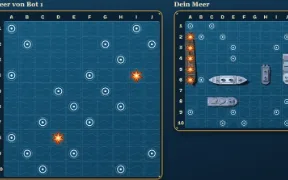
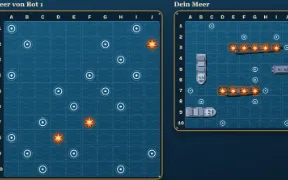
feat(schiffe): add selectable space skin
Zweites Design "Taktik-Konsole" (skin-ID `space`) fuer das bestehende Spiel `schiffe` - kein
zweites Spiel, keine zweite Registrierung. Der Host waehlt es beim Erstellen neben "Klassisch"
(Vorschaukarten, getrennt von classic/salvo); es gilt fuer alle am Tisch, bleibt beim
Wiederverbinden erhalten und ist pro Raum unabhaengig. Regeln, Server und Bedienung unveraendert.

- Gestaltung nach dem Vault-Entwurf: dunkle Weltraum-Konsole, Sterne, Radarringe mit langsamem
  Schwenk (nur Desktop, aus bei reduzierter Bewegung), fuenf Raumschiffformen in Draufsicht
  (aus dem Entwurf uebertragen, mit roter Wrackfassung), Treffer als bernsteinfarbener Stern,
  Fehlschuss als Ring, Zielerfassung mit Klammern, FEUER-Knopf; eigener Sektor mit Flottenstatus
  (Rumpfintegritaet), Gegnerflotte nur "Position unbekannt"/"vernichtet", Gefechtsprotokoll,
  auf dem Handy Reiter Zielsektor / Eigene Flotte.
- Alle Grafiken eigene Zeichnungen (scripts/build-schiffe-space-art.mjs, 20 SVG, zusammen 20 KB);
  der Name des Vorbilds steht nicht in der Oberflaeche, Anzeigename "Taktik-Konsole".
- Zielen bleibt wie bisher (Maus: Klick schiesst, Touch: Feld waehlen, dann Feuer); keine neue
  Eingabe, nichts Verdecktes im DOM (Gegnerflotte nur aus den versenkten Schiffen).
- Tests: test/ui/art-schiffe.spec.js um Flottenstatus, Gegnerflotte, Protokoll, Reiter und
  Zielerfassung erweitert; alle Skin-Tests laufen nun mit beiden Designs (Designauswahl, zwei
  Raeume gleichzeitig mit verschiedenen Designs).
[…]

diff --git a/public/games/schiffe/schiffe.js b/public/games/schiffe/schiffe.js
@@ -11,9 +11,10 @@
   const FINE = matchMedia('(pointer: fine)');
 
   // ---- Design (Skin): nur das Aussehen. Die ID kommt als Raumeinstellung vom Server (games/schiffe/skins.js) und gilt für alle am Tisch. ----
-  const SKINS = ['naval'];
+  const SKINS = ['naval', 'space'];
   const skinOf = (S) => (SKINS.includes(S?.settings?.skin) ? S.settings.skin : 'naval');
-  function applySkin(S) { const root = document.getElementById('kg'); if (root && S) root.dataset.svSkin = skinOf(S); }
+  let skinNow = 'naval', svTab = 'target'; // Design des Tisches; Reiter „Zielsektor / Eigene Flotte“ auf schmalen Handys (nur Taktik-Konsole)
+  function applySkin(S) { if (S) skinNow = skinOf(S); const root = document.getElementById('kg'); if (root && S) root.dataset.svSkin = skinNow; }
   // Klassisch (naval): vorgerenderte Watercraft-Modelle von oben (Kenney, CC0), Stahlton eingerechnet. Passregel aus dem Entwurf (Design C):
   // Länge N − 0,1 Felder, Breite höchstens 0,96 Zeilen, rundum 22 % Rand für den Schatten. len/wid in Feldern.
   const NAVAL_ART = '/games/schiffe/art/naval/';
@@ -23,20 +24,56 @@
   };
   // Modellwahl nur aus Länge und Lage der Zellen – für alle gleich (auch die Gegenseite sieht dasselbe Modell, nichts Verdecktes)
   const navalFit = (n, first) => { const list = NAVAL_FIT[n] || NAVAL_FIT[n > 5 ? 5 : 2]; return list[(Math.floor(first / SIZE) + first % SIZE) % list.length]; };
+  // Taktik-Konsole (space): fünf Raumschiffklassen in Draufsicht aus dem Vault-Entwurf (eigene Zeichnungen, art/space/). Längen und Regeln bleiben, die Klassennamen sind nur Anzeige.
+  const SPACE_ART = '/games/schiffe/art/space/';
+  const SPACE_CLASS = { 5: ['Träger'], 4: ['Schlachtkreuzer'], 3: ['Fregatte', 'Korvette'], 2: ['Jäger'] };
+  const spaceSize = (n) => (n >= 5 ? 5 : n <= 2 ? 2 : n);
+  const spaceName = (n, k = 0) => { const list = SPACE_CLASS[spaceSize(n)]; return list[k % list.length]; };
+  const spaceNames = (sizes) => { const seen = {}; return sizes.map((n) => spaceName(n, (seen[n] = (seen[n] ?? -1) + 1))); };
+  const spaceImg = (n, vertical, wreck) => SPACE_ART + 'ship-' + spaceSize(n) + '-' + (vertical ? 'v' : 'h') + (wreck ? '-wreck' : '') + '.svg';
+  const T = (de) => esc(I18n.t(de));
+  Object.assign(window.EN || {}, { 'Eigener Sektor': 'Own sector', 'Zielsektor · Gegner {0}': 'Target sector · opponent {0}', 'Sektor von {0}': 'Sector of {0}', 'Zielsektor': 'Target sector', 'Eigene Flotte': 'Own fleet',
+    'Eigene Flotte · Rumpfintegrität': 'Own fleet · hull integrity', 'Gegnerflotte · erfasst': 'Enemy fleet · detected', 'Gefechtsprotokoll': 'Combat log', 'Position unbekannt': 'Position unknown', 'VERNICHTET': 'DESTROYED', 'Sektionen': 'sections',
+    'Noch kein Schuss.': 'No shot yet.', 'Ansicht': 'View', 'Träger': 'Carrier', 'Schlachtkreuzer': 'Battlecruiser', 'Fregatte': 'Frigate', 'Korvette': 'Corvette', 'Jäger': 'Fighter', 'Taktik-Konsole': 'Tactical console',
+    'Flotte ausrichten': 'Align your fleet', 'Gefechtsstand': 'Battle station' });
   const SINK_MS = 900;
   let sunkRound = null, sunkSeen = new Set(), sunkFresh = new Map(); // frisch versenkte Schiffe: Schlüssel → Startzeit der Sinkbewegung (läuft auch über ein Neuzeichnen hinweg weiter)
   const sunkKeys = (g) => new Set(Object.entries(g.seas).flatMap(([id, sea]) => (sea.sunk || []).map((x) => id + ':' + Math.min(...x.cells))));
   const vesselHTML = (cells, { owner, sunk, picked }) => {
     cells = [...cells].sort((a, b) => a - b);
     const n = cells.length; if (!n) return '';
-    const first = cells[0], r0 = Math.floor(first / SIZE), c0 = first % SIZE, vertical = n > 1 && cells[1] - first === SIZE, fit = navalFit(n, first);
+    const first = cells[0], r0 = Math.floor(first / SIZE), c0 = first % SIZE, vertical = n > 1 && cells[1] - first === SIZE, fit = navalFit(n, first), space = skinNow === 'space';
     const wreck = cells.every((c) => sunk.has(c)), since = Date.now() - (sunkFresh.get(owner + ':' + first) ?? -Infinity), sinking = wreck && since < SINK_MS && !motionOff();
     // Absolut platziert (nimmt an der Zellenplatzierung nicht teil) – darum Start und Ende aller Linien angeben; „auto“ hieße bis zum Rand
     const pos = vertical ? 'grid-row:' + (r0 + 2) + ' / ' + (r0 + 2 + n) + ';grid-column:' + (c0 + 2) + ' / ' + (c0 + 3) : 'grid-row:' + (r0 + 2) + ' / ' + (r0 + 3) + ';grid-column:' + (c0 + 2) + ' / ' + (c0 + 2 + n);
-    return '<span class="sv-vessel ' + (vertical ? 'v' : 'h') + (wreck ? ' wreck' : '') + (sinking ? ' sinking' : '') + (picked ? ' picked' : '') + '" style="' + pos + ';--n:' + n + ';--len:' + fit.len + ';--wid:' + fit.wid + (sinking ? ';--sink-delay:-' + Math.round(since) + 'ms' : '') + '" aria-hidden="true"><img src="' + NAVAL_ART + 'stahl-' + fit.m + '-' + (vertical ? 'v' : 'h') + '.webp" alt="" decoding="async" draggable="false"></span>';
+    return '<span class="sv-vessel ' + (vertical ? 'v' : 'h') + (space ? ' space' : '') + (wreck ? ' wreck' : '') + (sinking ? ' sinking' : '') + (picked ? ' picked' : '') + '" style="' + pos + ';--n:' + n + ';--len:' + fit.len + ';--wid:' + fit.wid + (sinking ? ';--sink-delay:-' + Math.round(since) + 'ms' : '') + '" aria-hidden="true"><img src="' + (space ? spaceImg(n, vertical, wreck) : NAVAL_ART + 'stahl-' + fit.m + '-' + (vertical ? 'v' : 'h') + '.webp') + '" alt="" decoding="async" draggable="false"></span>';
   };
+  // Taktik-Konsole: eigene Flotte mit Rumpfintegrität (eigene Schiffe und die Schüsse des Gegners darauf), Gegnerflotte nur „unbekannt“ oder „vernichtet“
+  // (aus den versenkten Schiffen), Protokoll aus den öffentlichen Zügen. Nichts davon enthält Positionen nicht versenkter gegnerischer Schiffe.
+  const secHTML = (n, hit) => Array.from({ length: n }, (_, i) => '<i' + (i < hit ? ' class="hit"' : '') + '></i>').join('');
+  function ownFleetHTML(mine) {
+    const hits = new Set(Object.keys(mine.shots || {}).filter((c) => mine.shots[c] === 'hit').map(Number)), ships = mine.ships || [], names = spaceNames(ships.map((x) => x.size));
+    return '<section class="sv-panel sv-own-fleet"><h3>' + T('Eigene Flotte · Rumpfintegrität') + '</h3><ul>' + ships.map((x, k) => {
+      const hit = x.cells.filter((c) => hits.has(c)).length, dead = hit === x.size;
+      return '<li class="sv-fl' + (dead ? ' dead' : '') + '">' + fleetIconHTML(x.size, dead) + '<span class="sv-fl-t"><b>' + T(names[k]) + '</b><small>' + (x.size - hit) + '/' + x.size + ' ' + T('Sektionen') + '</small></span><span class="sv-sec" aria-hidden="true">' + secHTML(x.size, hit) + '</span></li>';
+    }).join('') + '</ul></section>';
+  }
+  function foeFleetHTML(S, foe) {
+    const g = S.g, sunk = (g.seas[foe].sunk || []).map((x) => x.size), names = spaceNames(g.fleet);
+    return '<section class="sv-panel sv-foe-fleet"><h3>' + T('Gegnerflotte · erfasst') + '</h3><ul>' + g.fleet.map((size, k) => {
+      const at = sunk.indexOf(size), dead = at >= 0; if (dead) sunk.splice(at, 1);
+      return '<li class="sv-fl' + (dead ? ' dead' : '') + '">' + fleetIconHTML(size, dead) + '<span class="sv-fl-t"><b>' + T(names[k]) + '</b><small>' + (dead ? T('VERNICHTET') : T('Position unbekannt')) + '</small></span></li>';
+    }).join('') + '</ul></section>';
+  }
+  function logHTML(S) {
+    const rows = (S.moves || []).filter((m) => m.n).slice(-7).reverse();
+    // Salve: die aufgelösten Schüsse beider Seiten (öffentlich, erst nach der gemeinsamen Auflösung)
+    const salvo = S.g.lastSalvo ? Object.entries(S.g.lastSalvo.shots).map(([id, list]) => '<li class="salvo"><b>' + nameOf(S, id) + '</b> ' + list.map((x) => cellName(x.cell) + (x.hit ? ' ✕' : ' •')).join(' ') + '</li>').join('') : '';
+    return '<section class="sv-panel sv-log"><h3>' + T('Gefechtsprotokoll') + '</h3>' + (rows.length ? '<ol>' + salvo + rows.map((m) => '<li class="' + (/versenkt/i.test(m.t) ? 'sunk' : /treffer/i.test(m.t) ? 'hit' : '') + '"><b>' + esc(m.n) + '</b> ' + esc(m.t) + '</li>').join('') + '</ol>' : '<p class="hint">' + T('Noch kein Schuss.') + '</p>') + '</section>';
+  }
+  const tabsHTML = () => '<div class="sv-tabs" role="group" aria-label="' + T('Ansicht') + '">' + [['target', 'Zielsektor'], ['own', 'Eigene Flotte']].map(([k, label]) => '<button type="button" class="sv-tab" data-g="svtab" data-tab="' + k + '" aria-pressed="' + (svTab === k) + '">' + T(label) + '</button>').join('') + '</div>';
   // Flottenliste beim Setzen: das Schiff als kleines Bild (waagerecht)
-  const fleetIconHTML = (size) => { const fit = navalFit(size, 0); return '<span class="sv-hull sv-hull-img" style="--len:' + fit.len + ';--wid:' + fit.wid + '" aria-hidden="true"><img src="' + NAVAL_ART + 'stahl-' + fit.m + '-h.webp" alt="" decoding="async" draggable="false"></span>'; };
+  const fleetIconHTML = (size, wreck = false) => { if (skinNow === 'space') return '<span class="sv-hull sv-hull-img sv-hull-space" style="--n:' + size + '" aria-hidden="true"><img src="' + spaceImg(size, false, wreck) + '" alt="" decoding="async" draggable="false"></span>'; const fit = navalFit(size, 0); return '<span class="sv-hull sv-hull-img" style="--len:' + fit.len + ';--wid:' + fit.wid + '" aria-hidden="true"><img src="' + NAVAL_ART + 'stahl-' + fit.m + '-h.webp" alt="" decoding="async" draggable="false"></span>'; };
 
   // Gleiche Prüfung wie auf dem Server (der entscheidet am Ende trotzdem selbst)
   function shipCells(cell, size, horizontal) {
@@ -171,7 +208,7 @@
       const W = WorldKit, t = W.t, g1 = S.g, over1 = S.phase === 'over', mine1 = meIn(S);
       const chips = [g1.step === 'place' && !over1 ? W.chip('⚓', mine1?.ready ? t('Flotte steht – warte auf den Gegner', 'Fleet ready – waiting for the opponent') : t('Phase: Schiffe setzen', 'Phase: placing ships'), mine1?.ready ? 'good' : 'warn') : over1 ? W.chip('🏁', t('Partie vorbei – beide Meere aufgedeckt', 'Game over – both seas revealed')) : W.chip('🎯', S.turnId === S.you?.id ? t('Du schießt', 'You are firing') : t('Der Gegner schießt', 'The opponent is firing'), S.turnId === S.you?.id ? 'good' : ''), S.variant === 'salvo' ? W.chip('✦', t('Salve-Variante', 'Salvo variant')) : ''].filter(Boolean);
       applySkin(S);
-      return `<div class="wk-stage sv-stage" data-skin="${skinOf(S)}">${W.head({ eyebrow: t('Seekarte', 'Sea chart'), title: g1.step === 'place' && !over1 ? t('Flotte aufstellen', 'Deploy your fleet') : t('Seeschlacht', 'Sea battle'), chips })}${this.mainBody(S)}</div>`;
+      return `<div class="wk-stage sv-stage" data-skin="${skinOf(S)}">${W.head({ eyebrow: skinOf(S) === 'space' ? t('Taktik-Konsole', 'Tactical console') : t('Seekarte', 'Sea chart'), title: g1.step === 'place' && !over1 ? (skinOf(S) === 'space' ? t('Flotte ausrichten', 'Align your fleet') : t('Flotte aufstellen', 'Deploy your fleet')) : (skinOf(S) === 'space' ? t('Gefechtsstand', 'Battle station') : t('Seeschlacht', 'Sea battle')), chips })}${this.mainBody(S)}</div>`;
     },
     mainBody(S) {
       const g = S.g;
@@ -183,19 +220,21 @@
       if (g.step === 'place' && !over) {
         if (!mine) return I18n.html`<div class="kg-table sv-wrap"><p class="hint">Die beiden setzen gerade ihre Schiffe – gleich geht es los.</p></div>`;
         const ships = mine.ready ? shipList(mine.ships) : draftCells(g.fleet);
-        return `<div class="kg-table sv-wrap">${board(mine, { ships, place: !mine.ready, title: 'Dein Meer', label: mine.ready ? '✓ bereit' : '', owner: me })}</div>`;
+        return `<div class="kg-table sv-wrap">${board(mine, { ships, place: !mine.ready, title: skinNow === 'space' ? T('Eigener Sektor') : 'Dein Meer', label: mine.ready ? '✓ bereit' : '', owner: me })}</div>`;
       }
       // Zuschauer oder Spielende: beide Meere (nach Spielende mit allen Schiffen)
       if (!mine || over) {
-        return `<div class="kg-table sv-wrap"><div class="sv-two">${ids.map((id) => board(g.seas[id], { ships: shipList(g.seas[id].ships || g.seas[id].sunk), small: true, title: I18n.html`Meer von ${nameOf(S, id)}`, label: over ? 'aufgedeckt' : '', owner: id })).join('')}</div></div>`;
+        return `<div class="kg-table sv-wrap"><div class="sv-two">${ids.map((id) => board(g.seas[id], { ships: shipList(g.seas[id].ships || g.seas[id].sunk), small: true, title: skinNow === 'space' ? I18n.html`Sektor von ${nameOf(S, id)}` : I18n.html`Meer von ${nameOf(S, id)}`, label: over ? 'aufgedeckt' : '', owner: id })).join('')}</div></div>`;
       }
       const foe = foeOf(S, me);
       const salvo = S.variant === 'salvo';
       const myTurn = salvo ? !g.salvoReady?.[me] : S.turnId === me;
-      return `<div class="kg-table sv-wrap"><div class="sv-two">
-        ${board(g.seas[foe], { ships: shipList(g.seas[foe].sunk), target: myTurn, sel: salvo ? volley : aim, title: I18n.html`Meer von ${nameOf(S, foe)}`, label: myTurn ? 'du schießt' : '', owner: foe })}
-        ${board(mine, { ships: shipList(mine.ships), small: true, title: 'Dein Meer', owner: me })}
-      </div></div>`;
+      const space = skinNow === 'space';
+      const targetBoard = board(g.seas[foe], { ships: shipList(g.seas[foe].sunk), target: myTurn, sel: salvo ? volley : aim, title: space ? I18n.html`Zielsektor · Gegner ${nameOf(S, foe)}` : I18n.html`Meer von ${nameOf(S, foe)}`, label: myTurn ? 'du schießt' : '', owner: foe });
+      const ownBoard = board(mine, { ships: shipList(mine.ships), small: true, title: space ? T('Eigener Sektor') : 'Dein Meer', owner: me });
+      // Taktik-Konsole: eigener Sektor und Flotte links, Zielsektor in der Mitte, Gegnerflotte und Protokoll rechts; auf dem Handy zwei Reiter
+      if (space) return `<div class="kg-table sv-wrap sv-console" data-tab="${svTab}">${tabsHTML()}<div class="sv-two sv-three"><div class="sv-col sv-col-own">${ownBoard}${ownFleetHTML(mine)}</div><div class="sv-col sv-col-target">${targetBoard}</div><div class="sv-col sv-col-info">${foeFleetHTML(S, foe)}${logHTML(S)}</div></div></div>`;
+      return `<div class="kg-table sv-wrap"><div class="sv-two">${targetBoard}${ownBoard}</div></div>`;
     },
     dock(S, myTurn) {
       const g = S.g;
@@ -204,7 +243,7 @@
       if (g.step === 'place') {
         if (mine.ready) return I18n.html('<button class="btn" data-g="unplace">Doch nochmal umstellen</button>');
         const ships = g.fleet.map((size, k) => `<button type="button" class="sv-ship ${selShip === k ? 'sel' : ''} ${draft[k] ? 'set' : ''}" data-g="ship" data-k="${k}" data-drag="ship${k}" aria-pressed="${selShip === k}">
-            ${fleetIconHTML(size)}<span>${SHIP[size]}${draft[k] ? ' ✓' : ''}</span></button>`).join('');
+            ${fleetIconHTML(size)}<span>${skinNow === 'space' ? T(spaceNames(g.fleet)[k]) : SHIP[size]}${draft[k] ? ' ✓' : ''}</span></button>`).join('');
         const done = draft.every(Boolean);
         return I18n.html`<div class="sv-ships" role="group" aria-label="Deine Flotte">${ships}</div>
           <div class="kg-acts"><button class="btn" data-g="turn">Drehen (${horizontal ? 'quer' : 'längs'})</button>
@@ -225,6 +264,7 @@
     onClick(t, S) {
       const g = t.dataset.g;
       const fleet = S.g.fleet;
+      if (g === 'svtab') { svTab = t.dataset.tab === 'own' ? 'own' : 'target'; kit.render(); return; }
       if (g === 'ship') { const k = Number(t.dataset.k); selShip = selShip === k ? null : k; if (selShip !== null && draft[selShip]) horizontal = draft[selShip].horizontal; kit.render(); }
       else if (g === 'cell') {
         const i = Number(t.dataset.i);

diff --git a/public/games/schiffe/schiffe.css b/public/games/schiffe/schiffe.css
@@ -90,3 +90,97 @@ body.calm .sv-vessel.sinking img { animation: none; }
 @media (max-width: 640px) { .kg-schiffe[data-sv-skin=naval] .sv-board { padding: 6px; gap: 1px; grid-template-columns: 12px repeat(10, minmax(0, 1fr)); border-radius: 10px; } .kg-schiffe[data-sv-skin=naval] .sv-lab { font-size: 10px; } }
 /* schmale Handys: mehr Breite fürs Meer, damit die Zellen groß genug bleiben (360 px Breite: etwa 29 px) */
 @media (max-width: 420px) { .kg-schiffe[data-sv-skin=naval] .sv-stage { padding-left: 8px; padding-right: 8px; } }
+
+/* ART-013 · Design „Taktik-Konsole“ (space): dunkle Weltraum-Konsole nach dem Vault-Entwurf. Eigene Zeichnungen (art/space/); nur das Aussehen.
+   Gilt nur, wenn der Tisch das Design space hat (Einstellung skin). Schiffsebene (.sv-vessel), Zellen und Bedienung wie bei naval, nur anders gezeichnet. */
+.kg-schiffe[data-sv-skin=space] .kg-main { background: url('/games/schiffe/art/space/stars.svg') 0 0 / 220px 220px, radial-gradient(120% 90% at 50% 15%, #0b1a2c, #04070c); }
+.kg-schiffe[data-sv-skin=space] .sv-stage { --wk-bg: linear-gradient(165deg, #07121e, #04070c); --wk-edge: #39d0ff55; --wk-accent: #7fe3ff; --wk-max: 1180px; }
+.kg-schiffe[data-sv-skin=space] .sv-sea h3 { font: 700 12px/1.3 system-ui, 'Segoe UI', sans-serif; letter-spacing: .14em; text-transform: uppercase; color: #39d0ff; text-align: left; }
+.kg-schiffe[data-sv-skin=space] .sv-sea h3 small { color: #ffb347; letter-spacing: .1em; }
+.kg-schiffe[data-sv-skin=space] .sv-board { position: relative; padding: 8px; gap: 2px; border-radius: 6px; overflow: hidden; background:
+  linear-gradient(#39d0ff, #39d0ff) 0 0 / 14px 2px no-repeat, linear-gradient(#39d0ff, #39d0ff) 0 0 / 2px 14px no-repeat, linear-gradient(#39d0ff, #39d0ff) 100% 0 / 14px 2px no-repeat, linear-gradient(#39d0ff, #39d0ff) 100% 0 / 2px 14px no-repeat,
+  linear-gradient(#39d0ff, #39d0ff) 0 100% / 14px 2px no-repeat, linear-gradient(#39d0ff, #39d0ff) 0 100% / 2px 14px no-repeat, linear-gradient(#39d0ff, #39d0ff) 100% 100% / 14px 2px no-repeat, linear-gradient(#39d0ff, #39d0ff) 100% 100% / 2px 14px no-repeat, #060e18;
+  box-shadow: inset 0 0 0 1px rgba(57,208,255,.28), 0 0 22px rgba(57,208,255,.08); }
+/* Radar: Ringe, Fadenkreuz und Scanlinien als eine Fläche unter dem Raster */
+.kg-schiffe[data-sv-skin=space] .sv-board::before { content: ''; position: absolute; inset: 0; grid-area: 2 / 2 / 12 / 12; pointer-events: none; border-radius: 3px; background:
+  repeating-linear-gradient(0deg, rgba(57,208,255,.055) 0 1px, transparent 1px 4px),
+  linear-gradient(90deg, transparent calc(50% - .5px), rgba(57,208,255,.2) calc(50% - .5px) calc(50% + .5px), transparent calc(50% + .5px)),
+  linear-gradient(0deg, transparent calc(50% - .5px), rgba(57,208,255,.2) calc(50% - .5px) calc(50% + .5px), transparent calc(50% + .5px)),
+  radial-gradient(circle at 50% 50%, transparent 0 17.5%, rgba(57,208,255,.2) 17.5% 18.2%, transparent 18.2% 35%, rgba(57,208,255,.16) 35% 35.7%, transparent 35.7% 52.5%, rgba(57,208,255,.13) 52.5% 53.2%, transparent 53.2% 70%, rgba(57,208,255,.1) 70% 70.7%, transparent 70.7%),
+  radial-gradient(circle at 50% 50%, #0f3550, #07121d 72%); box-shadow: inset 0 0 0 1px rgba(57,208,255,.3); }
+/* Radarschwenk: nur Zielsektor auf dem Desktop, langsam (transform), aus bei „Animationen aus“ und reduzierter Bewegung */
+.kg-schiffe[data-sv-skin=space] .sv-sea:not(.small) .sv-board::after { content: ''; position: absolute; inset: 0; grid-area: 2 / 2 / 12 / 12; pointer-events: none; border-radius: 50%; background: conic-gradient(from 0deg, rgba(57,208,255,.26), rgba(57,208,255,0) 38deg, transparent 360deg); mix-blend-mode: screen; animation: sv-sweep 16s linear infinite; will-change: transform; }
+@keyframes sv-sweep { to { transform: rotate(360deg); } }
+@media (max-width: 640px), (prefers-reduced-motion: reduce) { .kg-schiffe[data-sv-skin=space] .sv-sea:not(.small) .sv-board::after { animation: none; } }
+body.calm .kg-schiffe[data-sv-skin=space] .sv-board::after { animation: none; }
+.kg-schiffe[data-sv-skin=space] .sv-lab { color: #7fb8d4; font-size: 11px; font-weight: 700; letter-spacing: .05em; }
+.kg-schiffe[data-sv-skin=space] .sv-stage .sv-cell { min-height: 0; background: transparent; border-radius: 0; box-shadow: inset 0 0 0 .5px rgba(57,208,255,.17); color: transparent; position: relative; }
+.kg-schiffe[data-sv-skin=space] button.sv-cell:hover, .kg-schiffe[data-sv-skin=space] button.sv-cell:focus-visible { outline: 2px solid #ffb347; outline-offset: -2px; background: rgba(255,179,71,.1); }
+.kg-schiffe[data-sv-skin=space] .sv-cell.ship { background: transparent; }
+.kg-schiffe[data-sv-skin=space] .sv-cell i { position: relative; z-index: 2; display: block; width: 100%; height: 100%; font-size: 0; background: center / 88% no-repeat; }
+.kg-schiffe[data-sv-skin=space] .sv-cell.miss { background: transparent; }
+.kg-schiffe[data-sv-skin=space] .sv-cell.miss i { background-image: url('/games/schiffe/art/space/mark-miss.svg'); background-size: 100%; }
+.kg-schiffe[data-sv-skin=space] .sv-cell.hit { background: transparent; }
+.kg-schiffe[data-sv-skin=space] .sv-cell.hit i { background-image: url('/games/schiffe/art/space/mark-hit.svg'); background-size: 140%; }
+.kg-schiffe[data-sv-skin=space] .sv-cell.sunk, .kg-schiffe[data-sv-skin=space] .sv-cell.sunk.ship { background: repeating-linear-gradient(135deg, rgba(255,90,90,.2) 0 3px, rgba(60,10,20,.35) 3px 6px); box-shadow: inset 0 0 0 1px rgba(255,90,90,.65); }
+.kg-schiffe[data-sv-skin=space] .sv-cell.aim { outline: 0; background: rgba(255,179,71,.12); }
+.kg-schiffe[data-sv-skin=space] .sv-cell.aim::after { content: ''; position: absolute; inset: -22%; z-index: 3; background: url('/games/schiffe/art/space/mark-aim.svg') center / 100% no-repeat; pointer-events: none; animation: sv-lock .6s ease-out; }
+@keyframes sv-lock { from { transform: scale(1.8) rotate(30deg); opacity: 0; } to { transform: none; opacity: 1; } }
+@media (prefers-reduced-motion: reduce) { .kg-schiffe[data-sv-skin=space] .sv-cell.aim::after { animation: none; } }
+body.calm .kg-schiffe[data-sv-skin=space] .sv-cell.aim::after { animation: none; }
+.kg-schiffe[data-sv-skin=space] .sv-cell.picked { box-shadow: inset 0 0 0 2px #ffb347; }
+/* Raumschiffe: Bild genau über den Zellen (n Felder breit, 130 % einer Zeile hoch) */
+.sv-vessel.space img { filter: none; }
+.sv-vessel.space.h img { width: 100%; height: 130%; }
+.sv-vessel.space.v img { width: 130%; height: 100%; }
+.sv-vessel.space.wreck img { filter: none; transform: translate(-50%, -50%); opacity: .95; }
+.sv-vessel.space.picked img { filter: drop-shadow(0 0 4px #ffb347) drop-shadow(0 0 8px rgba(255,179,71,.7)); }
+.sv-vessel.space.sinking img { animation: sv-sink-space .9s ease-out var(--sink-delay, 0s) both; }
+@keyframes sv-sink-space { 0% { transform: translate(-50%, -50%) scale(1); opacity: 1; } 40% { transform: translate(-50%, -50%) scale(1.04); opacity: 1; } 100% { transform: translate(-50%, -50%) scale(1); opacity: .95; } }
+@media (prefers-reduced-motion: reduce) { .sv-vessel.space.sinking img { animation: none; } }
+body.calm .sv-vessel.space.sinking img { animation: none; }
+/* Flottenliste (Setzen) und Flottenstatus */
+.kg-schiffe[data-sv-skin=space] .sv-ship { border-color: rgba(57,208,255,.35); background: #07121d; color: #d8f3ff; font-size: 11px; letter-spacing: .06em; text-transform: uppercase; border-radius: 4px; }
+.kg-schiffe[data-sv-skin=space] .sv-ship.sel { border-color: #ffb347; background: rgba(255,179,71,.1); }
+.kg-schiffe[data-sv-skin=space] .sv-hull-space { display: block; width: calc(var(--n) * 17px); height: calc(var(--n) * 17px * .26); position: relative; }
+.kg-schiffe[data-sv-skin=space] .sv-hull-space img { display: block; width: 100%; height: 100%; }
+.sv-three { display: grid; grid-template-columns: minmax(0, 290px) minmax(0, 420px) minmax(0, 270px); gap: 18px; align-items: start; justify-content: center; }
+.sv-col { display: grid; gap: 12px; min-width: 0; align-content: start; }
+.sv-col .sv-sea, .sv-col .sv-sea.small { width: 100%; }
+.sv-tabs { display: none; }
+.sv-panel { padding: 10px 12px; border-radius: 4px; background: #07121d; box-shadow: inset 0 0 0 1px rgba(57,208,255,.28); }
+.sv-panel h3 { margin: 0 0 8px; font: 700 11px/1.3 system-ui, 'Segoe UI', sans-serif; letter-spacing: .14em; text-transform: uppercase; color: #39d0ff; }
+.sv-panel ul, .sv-panel ol { list-style: none; margin: 0; padding: 0; display: grid; gap: 5px; }
+.sv-fl { display: grid; grid-template-columns: 70px minmax(0, 1fr) auto; gap: 8px; align-items: center; min-height: 30px; padding: 3px 6px; border-radius: 3px; background: rgba(57,208,255,.05); box-shadow: inset 0 0 0 1px rgba(57,208,255,.16); }
+.sv-foe-fleet .sv-fl { grid-template-columns: 70px minmax(0, 1fr); }
+.kg-schiffe[data-sv-skin=space] .sv-fl .sv-hull-space { width: 100%; height: auto; aspect-ratio: 5 / 1.3; display: grid; place-items: center; }
+.kg-schiffe[data-sv-skin=space] .sv-fl .sv-hull-space img { width: calc(var(--n) / 5 * 100%); height: auto; }
+.sv-fl-t b { display: block; font-size: 11px; letter-spacing: .1em; text-transform: uppercase; color: #d8f3ff; }
+.sv-fl-t small { display: block; font-size: 10px; color: #7fb8d4; }
+.sv-sec { display: flex; gap: 3px; }
+.sv-sec i { width: 9px; height: 9px; background: #39d0ff; }
+.sv-sec i.hit { background: #ffb347; }
+.sv-fl.dead { box-shadow: inset 0 0 0 1px rgba(255,90,90,.7); background: rgba(255,90,90,.08); }
+.sv-fl.dead .sv-fl-t small { color: #ff8a8a; letter-spacing: .08em; }
+.sv-log li { font-size: 11px; color: #7fb8d4; letter-spacing: .03em; }
+.sv-log li b { color: #d8f3ff; font-weight: 600; }
+.sv-log li.hit { color: #ffb347; }
+.sv-log li.sunk { color: #ff8a8a; }
+.sv-log li.salvo { color: #ffb347; }
+.sv-log .hint { margin: 0; font-size: 11px; color: #7fb8d4; }
+/* FEUER */
+.kg-schiffe[data-sv-skin=space] .sv-fire { background: #2a1708; color: #ffb347; border: 2px solid #ffb347; border-radius: 0; letter-spacing: .3em; text-transform: uppercase; clip-path: polygon(12px 0, calc(100% - 12px) 0, 100% 12px, 100% calc(100% - 12px), calc(100% - 12px) 100%, 12px 100%, 0 calc(100% - 12px), 0 12px); }
+/* mittlere Breiten: Zielsektor oben, eigener Sektor mit Panels darunter */
+@media (max-width: 1099px) and (min-width: 641px) { .sv-three { grid-template-columns: minmax(0, 430px) minmax(0, 300px); } .sv-three .sv-col-target { order: -1; grid-row: span 2; } }
+/* Handy: Reiter Zielsektor / Eigene Flotte */
+@media (max-width: 640px) {
+  .sv-three { grid-template-columns: minmax(0, 1fr); gap: 12px; }
+  .sv-tabs { display: grid; grid-template-columns: 1fr 1fr; gap: 6px; width: 100%; }
+  .sv-tab { min-height: 44px; border-radius: 4px; border: 1px solid rgba(57,208,255,.35); background: #07121d; color: #7fb8d4; font: 700 12px/1 system-ui, 'Segoe UI', sans-serif; letter-spacing: .12em; text-transform: uppercase; }
+  .sv-tab[aria-pressed=true] { background: rgba(57,208,255,.14); border-color: #39d0ff; color: #d8f3ff; }
+  .sv-console[data-tab=target] .sv-col-own, .sv-console[data-tab=target] .sv-col-info { display: none; }
+  .sv-console[data-tab=own] .sv-col-target { display: none; }
+  .kg-schiffe[data-sv-skin=space] .sv-board { padding: 6px; gap: 1px; grid-template-columns: 12px repeat(10, minmax(0, 1fr)); }
+  .kg-schiffe[data-sv-skin=space] .sv-lab { font-size: 10px; }
+}
+@media (max-width: 420px) { .kg-schiffe[data-sv-skin=space] .sv-stage { padding-left: 8px; padding-right: 8px; } }

diff --git a/test/ui/art-schiffe.spec.js b/test/ui/art-schiffe.spec.js
@@ -67,9 +67,11 @@ async function noShipLeak(page, ben) {
 
 // Liegt jedes Schiffsbild genau über den Zellen seines Schiffs? (Gitterbereich = Vereinigung der Zellen)
 async function vesselsMatchShips(page) {
+  // Taktik-Konsole auf dem Handy: das eigene Meer liegt hinter dem Reiter „Eigene Flotte“
+  if (await page.locator('.sv-tabs').isVisible()) await page.locator('[data-g=svtab][data-tab=own]').click();
   return page.evaluate(() => {
     const me = lastState.you.id, ships = lastState.g.seas[me].ships;
-    const board = [...document.querySelectorAll('.sv-sea')].find((s) => /Dein Meer/.test(s.querySelector('h3')?.textContent || '')).querySelector('.sv-board');
+    const board = (document.querySelector('.sv-sea.small') || document.querySelector('.sv-sea')).querySelector('.sv-board'); // im Gefecht das kleine eigene Meer, beim Setzen das einzige
     const cell = (i) => board.querySelector(`.sv-cell[aria-label^="${'ABCDEFGHIJ'[i % 10]}${Math.floor(i / 10) + 1} "]`).getBoundingClientRect();
     const vessels = [...board.querySelectorAll('.sv-vessel')], out = [];
     for (const s of ships) {
@@ -276,4 +278,68 @@ test('ART-013: zwei Räume mit verschiedenen Designs gleichzeitig, kein Zustand 
     await page.evaluate((c) => joinAndEnter(c, 'watch'), codeB);
     await expect(page.locator('#kg')).toHaveAttribute('data-sv-skin', SKIN_IDS.at(-1));
   } finally { await context.close(); }
+});
+
+// ---------- Taktik-Konsole (space): Flottenstatus, Gegnerflotte, Protokoll, Reiter, Zielerfassung ----------
+test.describe('Taktik-Konsole', () => {
+  test.skip(!SKIN_IDS.includes('space'), 'Design space nicht vorhanden');
+  test('ART-013 space: Flottenstatus mit Rumpfintegrität, Gegnerflotte nur „unbekannt“ oder „vernichtet“, Protokoll – nichts Verdecktes', async ({ page, app }, info) => {
+    test.setTimeout(90000);
+    const code = await host(page, app, { skin: 'space' });
+    const ben = await startGame(page, app, code);
+    try {
+      await placeOwn(page);
+      if (info.project.name === 'mobil') await page.locator('[data-g=svtab][data-tab=own]').click(); // Flottenstatus und Protokoll liegen hinter dem Reiter
+      await expect(page.locator('.sv-console')).toHaveCount(1);
+      await expect(page.locator('.sv-own-fleet .sv-fl')).toHaveCount(5);
+      await expect(page.locator('.sv-foe-fleet .sv-fl')).toHaveCount(5);
+      await expect(page.locator('.sv-foe-fleet .sv-fl small', { hasText: 'Position unbekannt' })).toHaveCount(5);
+      await expect(page.locator('.sv-foe-fleet .sv-fl.dead')).toHaveCount(0);
+      await expect(page.locator('.sv-log')).toBeVisible(); // Protokoll: öffentliche Züge (z. B. „bereit“)
+      await expect(page.locator('.sv-own-fleet .sv-sec i.hit')).toHaveCount(0);
+      await annaShoots(page, ben, 99); // Wasser
+      // Bens erster Schuss: Zelle 0 trifft Annas Schiff nur zufällig – Rumpfintegrität stimmt in jedem Fall mit den Schüssen überein
+      const mine = await page.evaluate(() => { const me = lastState.you.id, sea = lastState.g.seas[me]; const hits = Object.keys(sea.shots).filter((c) => sea.shots[c] === 'hit').length; return { hits }; });
+      await expect(page.locator('.sv-own-fleet .sv-sec i.hit')).toHaveCount(mine.hits);
+      await expect(page.locator('.sv-log li')).not.toHaveCount(0);
+      await annaShoots(page, ben, 85); await annaShoots(page, ben, 86); // 2er versenkt
+      await expect(page.locator('.sv-foe-fleet .sv-fl.dead')).toHaveCount(1);
+      await expect(page.locator('.sv-foe-fleet .sv-fl small', { hasText: 'Position unbekannt' })).toHaveCount(4);
+      await expect(page.locator('.sv-foe-fleet .sv-fl.dead small')).toHaveText(/VERNICHTET/);
+      // Die Gegnerflotte verrät keine Lage: kein Hinweis auf Zellen in der Liste, nur Name, Zustand und die Schiffsklasse als Bild
+      const panel = await page.locator('.sv-foe-fleet').innerHTML();
+      for (const s of FLEET_B) expect(panel).not.toMatch(new RegExp('\b' + s.cell + '\b'));
+      await noShipLeak(page, ben);
+      await capture(page, info, 'space-konsole');
+    } finally { await ben.close(); }
+  });
+
+  test('ART-013 space: Reiter „Zielsektor / Eigene Flotte“ nur auf dem Handy, Zielerfassung vor dem Schuss', async ({ page, app }, info) => {
+    test.setTimeout(90000);
+    const code = await host(page, app, { skin: 'space' });
+    const ben = await startGame(page, app, code);
+    try {
+      await placeOwn(page);
+      const mobile = info.project.name === 'mobil';
+      await expect(page.locator('.sv-tabs')).toBeVisible({ visible: mobile });
+      if (mobile) {
+        await expect(page.locator('.sv-col-target')).toBeVisible(); await expect(page.locator('.sv-col-own')).toBeHidden();
+        await page.locator('[data-g=svtab][data-tab=own]').click();
+        await expect(page.locator('.sv-col-own')).toBeVisible(); await expect(page.locator('.sv-col-target')).toBeHidden(); await expect(page.locator('.sv-col-info')).toBeVisible();
+        await page.locator('[data-g=svtab][data-tab=target]').click();
+        await expect(page.locator('.sv-col-target')).toBeVisible();
+      } else { await expect(page.locator('.sv-col-own')).toBeVisible(); await expect(page.locator('.sv-col-target')).toBeVisible(); await expect(page.locator('.sv-col-info')).toBeVisible(); }
+      // Zielen: Handy = Feld wählen (Klammern), dann „Feuer“; Maus = ein Klick schießt
+      await expect.poll(() => page.evaluate(() => lastState.turnId === lastState.you.id)).toBe(true);
+      const cell = page.locator('.sv-sea:not(.small) button.sv-cell').nth(7);
+      await cell.scrollIntoViewIfNeeded(); await cell.click();
+      if (mobile) {
+        await expect(page.locator('.sv-sea:not(.small) .sv-cell.aim')).toHaveCount(1);
+        const aim = await page.locator('.sv-sea:not(.small) .sv-cell.aim').evaluate((el) => getComputedStyle(el, '::after').backgroundImage);
+        expect(aim).toMatch(/mark-aim.svg/);
+        await page.locator('[data-g=fire]').click();
+      }
+      await expect.poll(() => page.evaluate(() => { const foe = Object.keys(lastState.g.seas).find((x) => x !== lastState.you.id); return Object.keys(lastState.g.seas[foe].shots).length; })).toBe(1);
+    } finally { await ben.close(); }
+  });
 });

diff --git a/games/schiffe/skins.js b/games/schiffe/skins.js
@@ -5,6 +5,7 @@ export const DEFAULT_SKIN = 'naval';
 
 export const SKINS = [
   { id: 'naval', name: 'Klassisch', description: 'Dunkle Seekarte mit Schiffen von oben: Wasser mit Raster, Treffer als Stern, versenkte Schiffe als Wrack.', preview: '/games/schiffe/art/preview-naval.webp' },
+  { id: 'space', name: 'Taktik-Konsole', description: 'Dunkle Weltraum-Konsole: Sektoren mit Radarringen, Raumschiffe von oben, Treffer glühen bernsteinfarben, versenkte Schiffe als rotes Wrack.', preview: '/games/schiffe/art/preview-space.webp' },
 ];
 
 export const skinIds = () => SKINS.map((s) => s.id);

diff --git a/docs/design/ART_LICENSES.md b/docs/design/ART_LICENSES.md
@@ -13,6 +13,8 @@ Jede Grafik in `public/games/<spiel>/art/` steht hier mit Herkunft und Lizenz. F
 | ART-008 | `public/games/zehnetappen/art/table.webp` | eigene Köper-Tischtuchstruktur (erzeugt, 96 × 96, kachelbar) |
 | ART-T1 | `public/games/card-worlds/art/<Welt>/` mit `0.svg`–`3.svg`, `w.svg`, `back.svg` für die Welten U-01, U-02, U-03, U-04, U-05, U-06, U-07, U-08, U-09, U-10, SB-01, SB-02, SB-03, SB-04, SB-05, SB-06, SB-07, SB-08, SB-09, SB-10, P-01, P-02, P-03, P-04, P-05, P-06, P-07, P-08, P-09, P-10, X-01, X-02, X-03, X-04, X-05, X-06, X-07, X-08, X-09, X-10 | eigene Zeichnungen, erzeugt mit `node scripts/build-card-worlds.mjs` aus `scripts/card-worlds/motifs.mjs`; Vorbilder nur als Stimmung, keine Logos oder Figuren |
 | ART-013 | `public/games/schiffe/art/naval/water.svg`, `public/games/schiffe/art/naval/mark-hit.svg`, `public/games/schiffe/art/naval/mark-miss.svg`, `public/games/schiffe/art/naval/mark-aim.svg` | eigene Zeichnung (Wellenkachel, Treffer-Stern, Wasser-Ring, Zielmarke) nach dem Entwurf „Design C“ |
+| ART-013 | `public/games/schiffe/art/space/mark-aim.svg`, `public/games/schiffe/art/space/mark-hit.svg`, `public/games/schiffe/art/space/mark-miss.svg`, `public/games/schiffe/art/space/ship-2-h-wreck.svg`, `public/games/schiffe/art/space/ship-2-h.svg`, `public/games/schiffe/art/space/ship-2-v-wreck.svg`, `public/games/schiffe/art/space/ship-2-v.svg`, `public/games/schiffe/art/space/ship-3-h-wreck.svg`, `public/games/schiffe/art/space/ship-3-h.svg`, `public/games/schiffe/art/space/ship-3-v-wreck.svg`, `public/games/schiffe/art/space/ship-3-v.svg`, `public/games/schiffe/art/space/ship-4-h-wreck.svg`, `public/games/schiffe/art/space/ship-4-h.svg`, `public/games/schiffe/art/space/ship-4-v-wreck.svg`, `public/games/schiffe/art/space/ship-4-v.svg`, `public/games/schiffe/art/space/ship-5-h-wreck.svg`, `public/games/schiffe/art/space/ship-5-h.svg`, `public/games/schiffe/art/space/ship-5-v-wreck.svg`, `public/games/schiffe/art/space/ship-5-v.svg`, `public/games/schiffe/art/space/stars.svg` | eigene Zeichnungen für das Design „Taktik-Konsole“: die fünf Raumschiffformen, Sternenkachel und Zellzustände sind aus dem eigenen Vault-Entwurf übertragen, erzeugt mit `node scripts/build-schiffe-space-art.mjs`; nichts aus einem fremden Spiel |
+| ART-013 | `public/games/schiffe/art/preview-space.webp` | Bildschirmfoto des laufenden Spiels (Designauswahl), erzeugt mit `node scripts/capture-schiffe-skins.mjs` |
 | ART-013 | `public/games/schiffe/art/preview-naval.webp` | Bildschirmfoto des laufenden Spiels (Designauswahl), erzeugt mit `node scripts/capture-schiffe-skins.mjs` |
 
 ## Fremde Grafiken

diff --git a/CHANGELOG.md b/CHANGELOG.md
@@ -2,6 +2,12 @@
 
 Hier steht, was sich im Spieleabend geändert hat, verständlich für alle, die ihn nutzen. Die technische Anleitung für den Server steht in [docs/betrieb.md](docs/betrieb.md).
 
+## 3.4.0 – 14. November 2026
+
+* **Schiffe versenken, zweites Design „Taktik-Konsole“:** Beim Erstellen eines Tisches kann der Host jetzt zwischen „Klassisch“ und „Taktik-Konsole“ wählen (zwei Vorschaukarten, getrennt von der Spielvariante Klassisch/Salvo). Die Taktik-Konsole ist eine dunkle Weltraum-Konsole: Raumschiffe von oben, Radarringe mit langsamem Schwenk, Treffer glühen bernsteinfarben, versenkte Schiffe sind rote Wracks. Dazu zeigt sie den Zustand der eigenen Flotte (Rumpfintegrität), die Gegnerflotte (nur „Position unbekannt“ oder „vernichtet“) und ein Gefechtsprotokoll; auf dem Handy wechselt man per Reiter zwischen Zielsektor und eigener Flotte.
+* **Alles gleich für alle am Tisch:** Das Design gehört zum Tisch, auch Zuschauer sehen es, und es bleibt nach dem Neuladen erhalten. Zwei Tische können gleichzeitig verschiedene Designs haben. Regeln, Schüsse, Timer und Punkte ändern sich nicht; Positionen gegnerischer Schiffe bleiben bis zum Versenken verborgen.
+* Der Name des Vorbilds für die Konsole steht nicht in der Oberfläche; die Herkunft der Zeichnungen steht in `docs/design/SCHIFFE_SKINS.md` und `docs/design/ART_LICENSES.md`.
+
 ## 3.3.0 – 14. November 2026
 
 * **Schiffe versenken, neues Aussehen:** Auf dem Meer fahren jetzt echte Schiffe von oben (Ozeandampfer, Frachter, Schlepper statt grauer Blöcke). Das Wasser hat Wellen und ein goldenes Gitter, ein Treffer ist ein orangener Stern, Wasser ein Ring, ein versenktes Schiff liegt dunkel als Wrack unter dem Stern und sinkt kurz. Alles gilt für klassische Regeln und Salvo, die Regeln selbst sind unverändert.

diff --git a/README.md b/README.md
@@ -487,7 +487,7 @@ Bei **SIGTERM** (`docker stop`) und **SIGINT** wird ebenfalls sofort alles gespe
 
 ### Version und „Was ist neu“
 
-Die Version steht in `package.json` (jetzt **3.3.0**) und klein unter dem Schriftzug „Spieleabend“ (mit Build-Kürzel), der Commit-Hash kommt als Build-Argument ins Image: Der Workflow übergibt `GIT_COMMIT` automatisch, lokal `docker build --build-arg GIT_COMMIT=$(git rev-parse HEAD) .`. Beides steht unter **Ich** und auf `/health` (`{"ok":true,"version":"2.0.0","commit":"abc1234","uptime":…}`).
+Die Version steht in `package.json` (jetzt **3.4.0**) und klein unter dem Schriftzug „Spieleabend“ (mit Build-Kürzel), der Commit-Hash kommt als Build-Argument ins Image: Der Workflow übergibt `GIT_COMMIT` automatisch, lokal `docker build --build-arg GIT_COMMIT=$(git rev-parse HEAD) .`. Beides steht unter **Ich** und auf `/health` (`{"ok":true,"version":"2.0.0","commit":"abc1234","uptime":…}`).
 
 **Was ist neu** zeigt die neuesten erledigten Einträge aus `games/roadmap.js` – automatisch, sobald dort etwas auf erledigt gesetzt wird (mit Datum). Jeder Browser sieht den Hinweis **einmal pro neuer Haupt- oder Nebenversion** (reine Fehlerbehebungen x.y.Z öffnen ihn nicht) (gemerkt in `poker:seenVersion`; ein ganz neuer Browser bekommt ihn nicht), außerdem jederzeit über **Ich → Was ist neu?**.
 

diff --git a/docs/betrieb.md b/docs/betrieb.md
@@ -1,6 +1,6 @@
 # Betrieb: Spieleabend aufsetzen, aktualisieren, sichern, reparieren
 
-Stand: Version **3.3.0** (14. November 2026). Diese Datei ist die vollständige Betriebsanleitung. Das README beschreibt die Spiele und die Entwicklung, hier steht alles für den Server.
+Stand: Version **3.4.0** (14. November 2026). Diese Datei ist die vollständige Betriebsanleitung. Das README beschreibt die Spiele und die Entwicklung, hier steht alles für den Server.
 
 **Inhalt**
 
